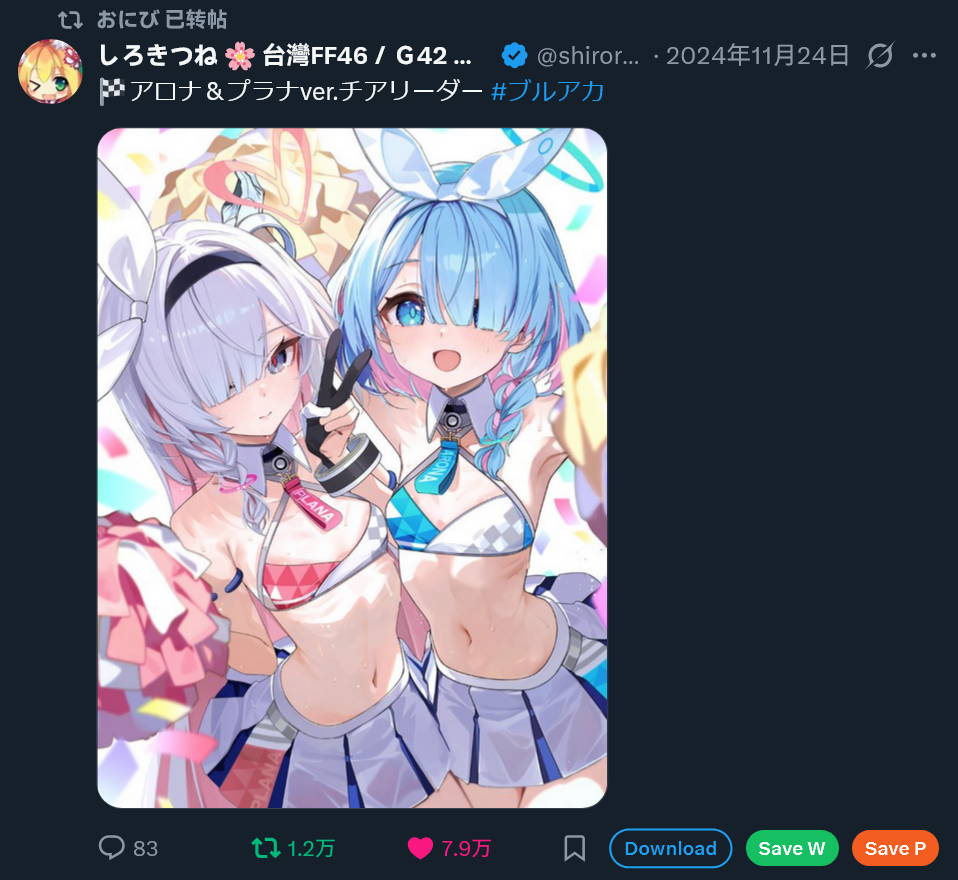
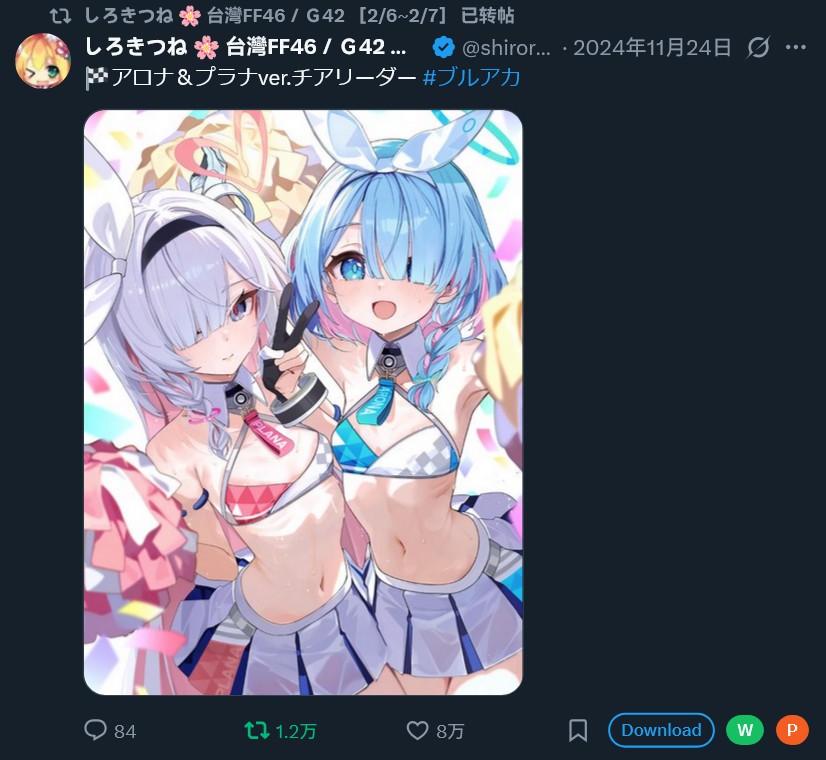
update readme

diff --git a/README.md b/README.md
@@ -4,12 +4,15 @@
 
 This fork adds the following features:
 
-- **Wallpaper Save Buttons**: Added "Save W" and "Save P" buttons on timeline tweets for quick wallpaper saving
+- **Wallpaper Save Buttons**: Added "W" and "P" buttons on timeline tweets for quick wallpaper saving
 - **Download Button**: New "Download" button to download all images directly (without ZIP)
 - **Keyboard Shortcuts**: Press <kbd>w</kbd> or <kbd>p</kbd> in overlay view to save as wallpaper
 - **Resolution Display**: Shows image dimensions in the overlay status bar
 - **Custom Save Paths**: Configure wallpaper and phone wallpaper save paths in settings
-- **Hide View Count and Share**: Add an option to disable them, as they are not always needed.
+- **Add Setting to Hide <kbd>z</kbd> in Overlay**: Since downloading all images as a zip is not always needed
+- **Add Setting to Hide View Count and Share of X**: Same as above
+
+When press `W` or `P` buttons or their corresponding keyborad shortcuts. The image are also download to the default folder of the browser.
 
 <br>
 <img src="image.png" width="400">
